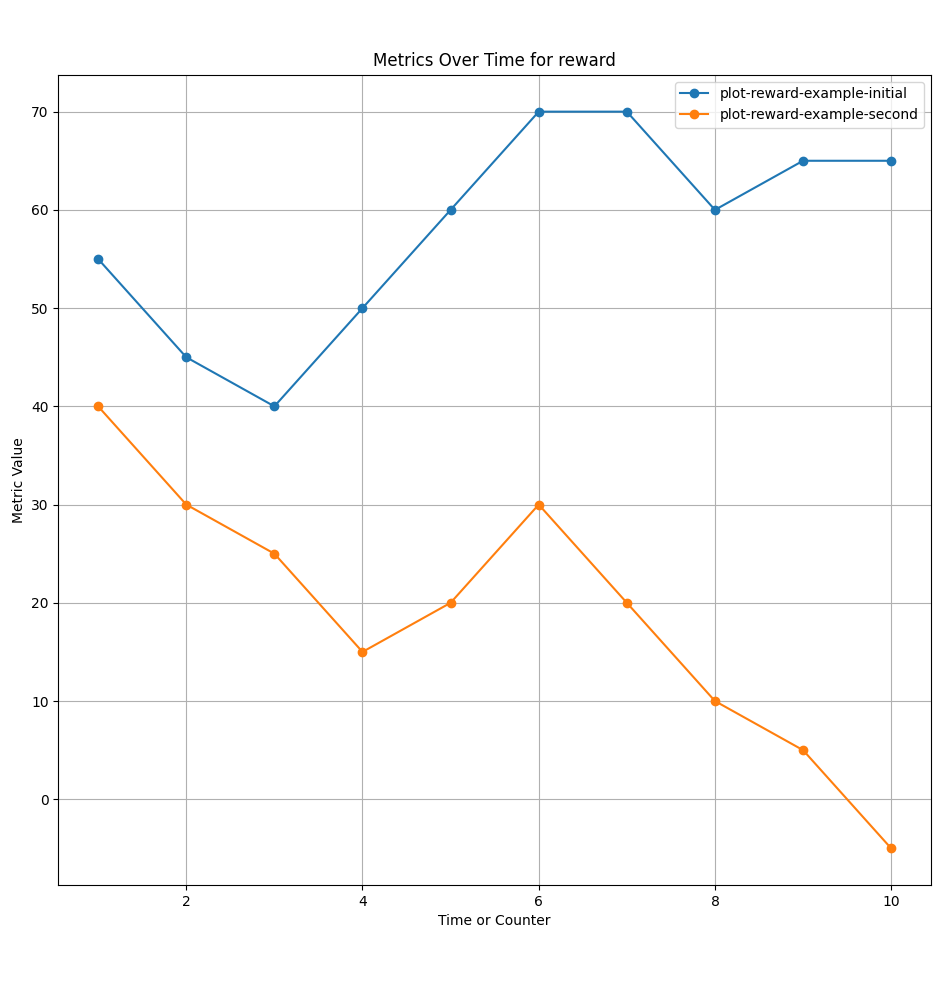
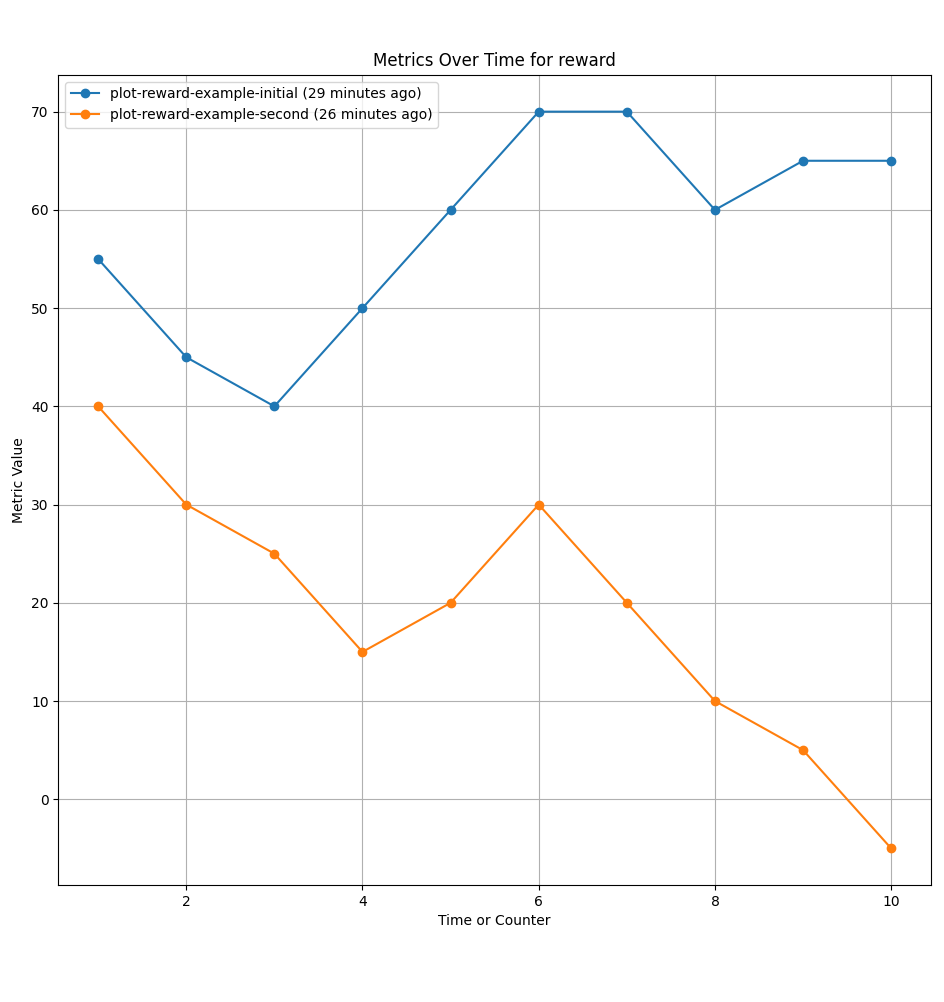
show time in git graph

Changed region(s): [[0.0614, 0.0619, 0.4608, 0.1238], [0.7066, 0.0619, 0.9831, 0.1238]]

diff --git a/MetricTracker.py b/MetricTracker.py
@@ -69,17 +69,22 @@ class MetricTracker:
         plt.show()
 
 
-def get_tags(tag_pattern):
-    result = subprocess.check_output(['git', 'tag', '-l', tag_pattern]).decode().strip().split()
-    return result
+def get_tags_with_dates(tag_pattern):
+    tags = subprocess.check_output(['git', 'tag', '-l', tag_pattern]).decode().strip().split()
+    tag_dates = {}
+    for tag in tags:
+        commit_hash = subprocess.check_output(['git', 'rev-list', '-n', '1', tag]).decode().strip()
+        commit_date = subprocess.check_output(['git', 'show', '-s', '--format=%cd', commit_hash]).decode().strip()
+        tag_dates[tag] = commit_date
+    return tag_dates
 
-def plot_data(tags, filename, tag_name):
+def plot_data(tags_with_dates, filename, tag_name):
     plt.figure(figsize=(10, 5))
     plt.title(f'Metrics Over Time for {tag_name}')
     plt.xlabel('Time or Counter')
     plt.ylabel('Metric Value')
     
-    for tag in tags:
+    for tag, date in tags_with_dates.items():
         file_content = subprocess.check_output(['git', 'show', f"{tag}:{filename}"]).decode()
         df = pd.read_csv(io.StringIO(file_content))
 
@@ -89,7 +94,7 @@ def plot_data(tags, filename, tag_name):
             metric_column = df.columns[1]  # Fallback to second column
         
         x_axis = df.columns[0]  # Always use the first column for the x-axis
-        plt.plot(df[x_axis], df[metric_column], marker='o', linestyle='-', label=tag)
+        plt.plot(df[x_axis], df[metric_column], marker='o', linestyle='-', label=f"{tag} ({date})")
 
     plt.legend()
     plt.grid(True)
@@ -103,8 +108,8 @@ def main():
         return 1
 
     tag_name = sys.argv[1]
-    tags = get_tags(f'plot-{tag_name}*')
-    plot_data(tags, 'metrics_log.csv', tag_name)
+    tags_dates = get_tags_with_dates(f'plot-{tag_name}*')
+    plot_data(tags_dates, 'metrics_log.csv', tag_name)
     return 0
 
 if __name__ == '__main__':

diff --git a/README.md b/README.md
@@ -10,7 +10,7 @@ The `MetricTracker` is a versatile Python module designed for logging and visual
 
 ## Installation
 
-The simplest way to install MetricTracker is to clone `MetricTracker.py` in your project's directory. Then get right to work!
+The simplest way to install MetricTracker is to clone `MetricTracker.py` in your project's directory.
 
 ## Usage
 
